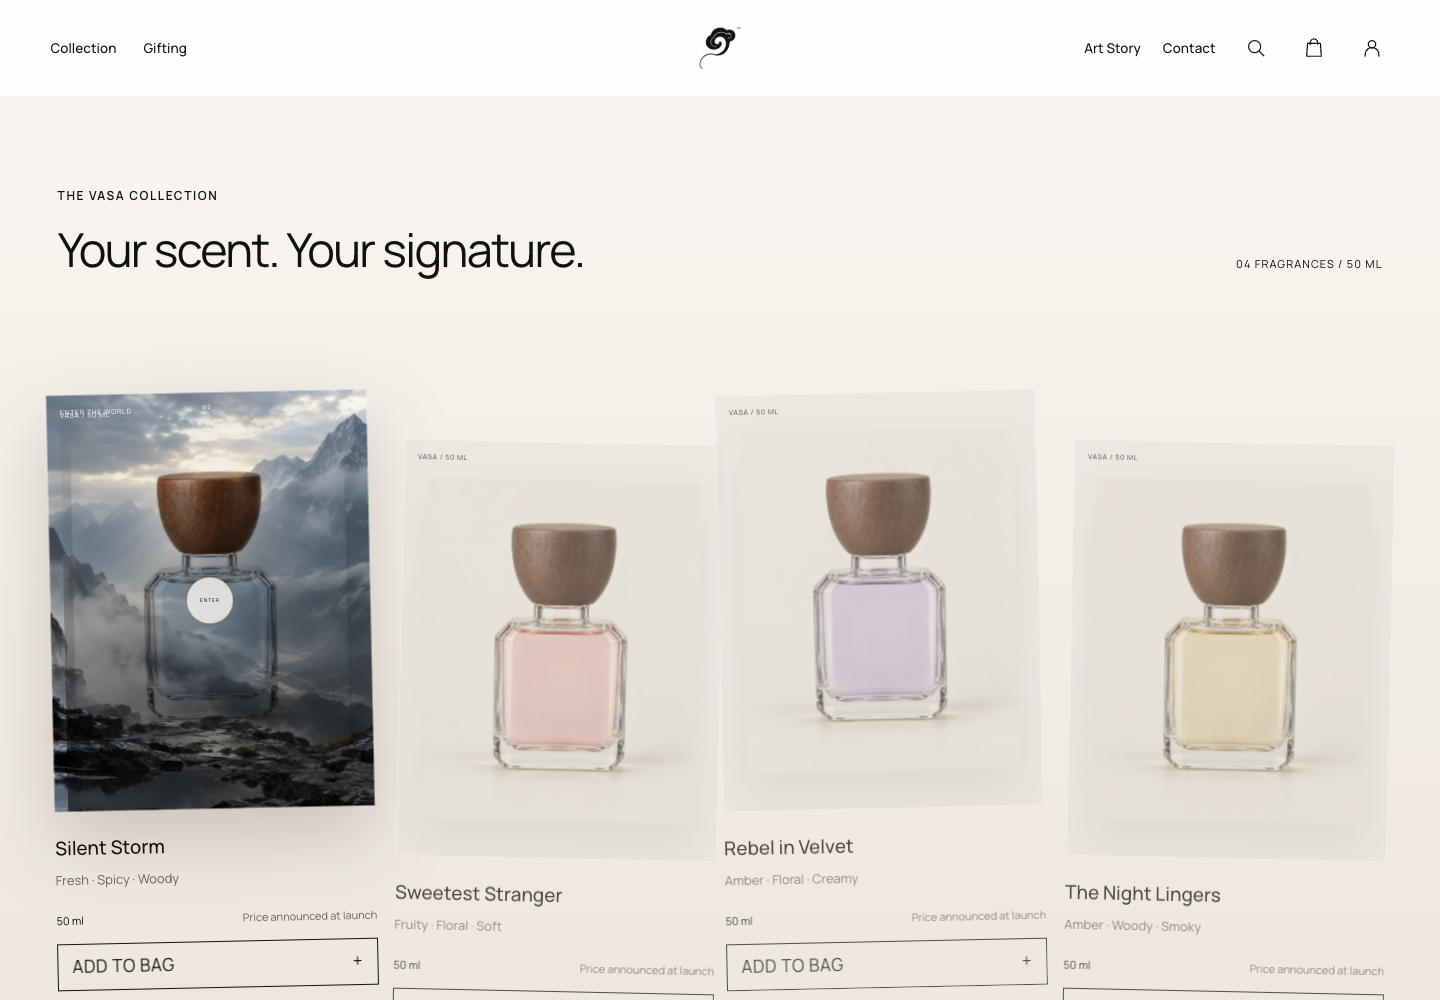
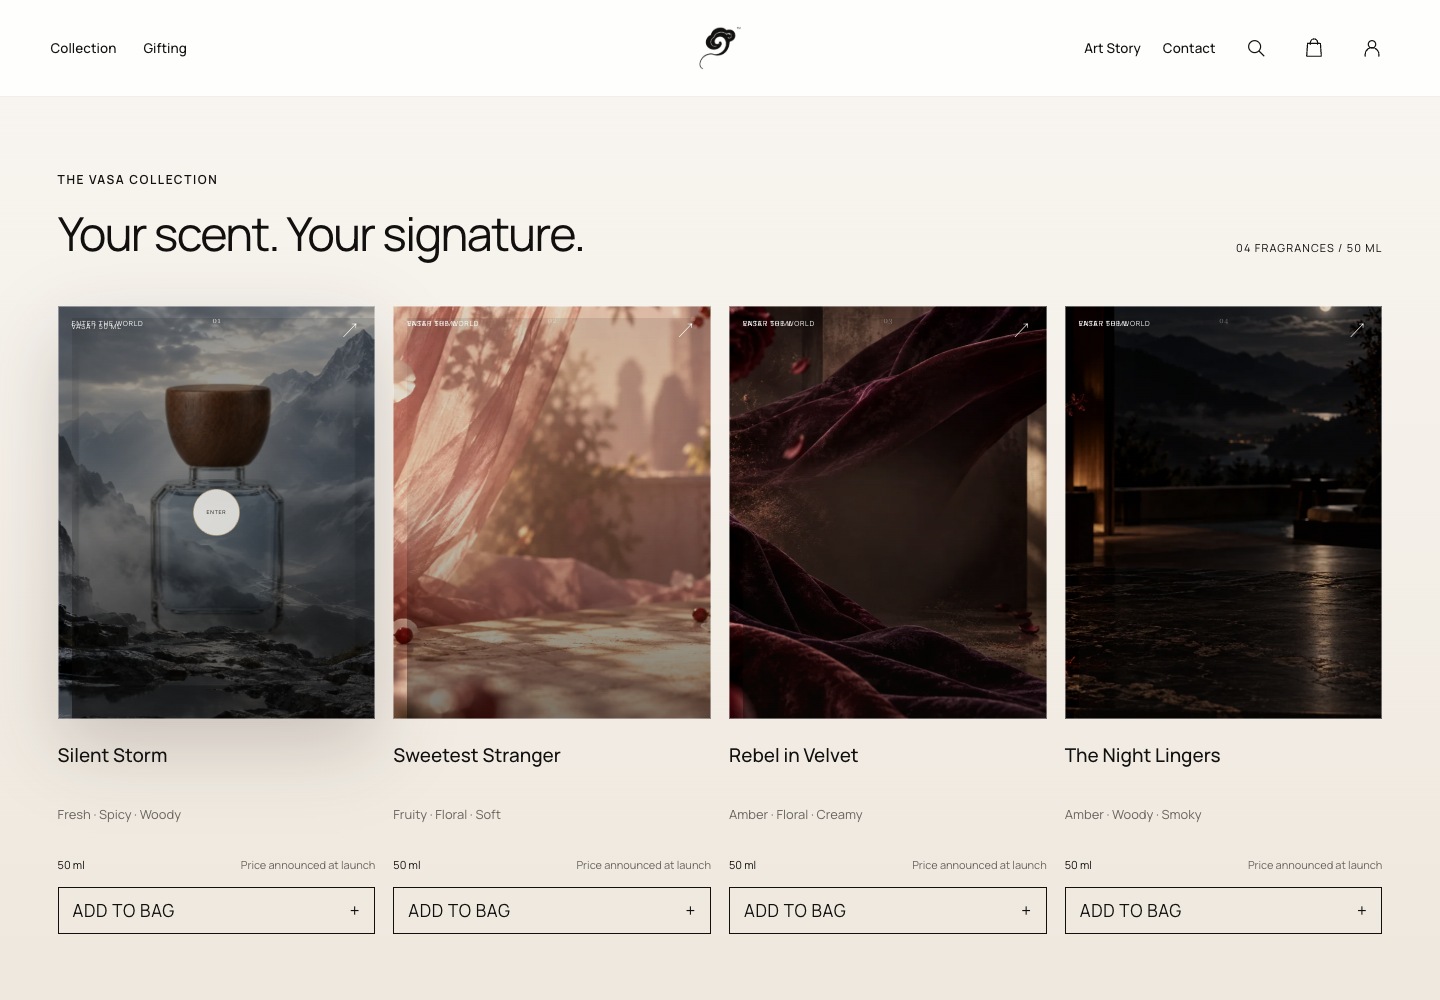
fix(campaign): align cards and reverse product reveal

diff --git a/05-campaign/style.css b/05-campaign/style.css
@@ -72,26 +72,23 @@ html,body{max-width:100%;overflow-x:clip}body{background:var(--porcelain)}
 .motion-line{overflow:hidden!important;padding:.08em .04em .12em 0;margin-bottom:-.12em;will-change:transform,opacity}
 
 .shop{background:linear-gradient(180deg,#f8f5f0 0%,#eee7dd 100%)}
-.product-grid{align-items:start;gap:14px}.product-card{position:relative;min-width:0;transition:transform .75s var(--ease-out),opacity .55s ease;transform-origin:center bottom}
-.product-grid:has(.product-card:hover) .product-card:not(:hover){opacity:.72;transform:scale(.985)}
-.product-card:hover{transform:translateY(-10px)}
+.product-grid{align-items:stretch;gap:18px}.product-card{position:relative;display:flex;min-width:0;height:100%;flex-direction:column}
 .product-image{isolation:isolate;padding:0;background:#e8e4de;aspect-ratio:4/5.2;perspective:900px;transition:box-shadow .8s var(--ease-out)}
 .product-image:after{content:'';position:absolute;inset:0;z-index:3;border:1px solid rgba(255,255,255,.38);pointer-events:none}
-.product-image .product-world{position:absolute;z-index:0;inset:-3%;width:106%;height:106%;object-fit:cover;object-position:center;mix-blend-mode:normal;clip-path:inset(0 100% 0 0);filter:saturate(.84) contrast(1.04);transition:clip-path 1.05s var(--ease-out),filter .8s ease,transform 1.2s var(--ease-out)}
-.product-card:nth-child(even) .product-world{clip-path:inset(0 0 0 100%)}
-.product-wash{position:absolute;z-index:1;inset:0;background:linear-gradient(180deg,rgba(12,10,8,.04) 30%,rgba(12,10,8,.62) 100%);opacity:0;transition:opacity .8s ease}
-.product-image .product-bottle{position:relative;z-index:2;width:100%;height:100%;padding:18px;object-fit:contain;mix-blend-mode:multiply;transform:translateZ(0) scale(.96);filter:drop-shadow(0 26px 22px rgba(16,11,8,.08));transition:transform 1s var(--ease-out),filter 1s var(--ease-out),mix-blend-mode .2s}
-.product-label{position:absolute;z-index:4;left:17px;top:15px;font-size:9px;letter-spacing:.12em;transition:color .5s ease,transform .7s var(--ease-out)}
-.product-index{position:absolute;z-index:3;right:13px;top:5px;color:#fff;font:400 clamp(42px,4.5vw,70px)/1 Georgia,serif;letter-spacing:-.08em;opacity:0;transform:translateY(-18px);transition:opacity .65s ease,transform .8s var(--ease-out)}
-.product-world-label{position:absolute;z-index:4;left:17px;right:17px;top:auto;bottom:16px;color:white;font-size:9px;letter-spacing:.13em;display:flex;justify-content:space-between;opacity:0;transform:translateY(14px);transition:opacity .55s ease .12s,transform .7s var(--ease-out) .08s}
+.product-image .product-world{position:absolute;z-index:0;inset:-3%;width:106%;height:106%;object-fit:cover;object-position:center;mix-blend-mode:normal;clip-path:inset(0);opacity:1;filter:saturate(.88) contrast(1.05) brightness(.88);transition:filter .8s ease,transform 1.2s var(--ease-out)}
+.product-wash{position:absolute;z-index:1;inset:0;background:linear-gradient(180deg,rgba(12,10,8,.13) 0%,rgba(12,10,8,.04) 38%,rgba(12,10,8,.68) 100%);opacity:.72;transition:opacity .8s ease}
+.product-image .product-bottle{position:relative;z-index:2;width:100%;height:100%;padding:18px;object-fit:contain;mix-blend-mode:multiply;opacity:0;transform:translateY(28px) scale(.84);filter:drop-shadow(0 26px 22px rgba(16,11,8,.08));transition:opacity .65s ease,transform 1s var(--ease-out),filter 1s var(--ease-out)}
+.product-label{position:absolute;z-index:4;left:17px;top:15px;color:#fff;font-size:9px;letter-spacing:.12em;text-shadow:0 1px 18px rgba(0,0,0,.72);transition:transform .7s var(--ease-out)}
+.product-index{position:absolute;z-index:3;right:13px;top:5px;color:#fff;font:400 clamp(42px,4.5vw,70px)/1 Georgia,serif;letter-spacing:-.08em;opacity:.34;transform:none;transition:opacity .65s ease,transform .8s var(--ease-out)}
+.product-world-label{position:absolute;z-index:4;left:17px;right:17px;top:auto;bottom:16px;color:white;font-size:9px;letter-spacing:.13em;display:flex;justify-content:space-between;opacity:1;transform:none;text-shadow:0 1px 18px rgba(0,0,0,.72);transition:opacity .55s ease,transform .7s var(--ease-out)}
 .product-world-label b{font-size:15px;font-weight:400}
 .product-image:hover,.product-image:focus-visible{box-shadow:0 28px 75px rgba(46,30,22,.2)}
-.product-image:hover .product-world,.product-image:focus-visible .product-world{clip-path:inset(0);filter:saturate(.95) contrast(1.08)}
-.product-image:hover .product-wash,.product-image:focus-visible .product-wash{opacity:1}
-.product-image:hover .product-bottle,.product-image:focus-visible .product-bottle{mix-blend-mode:multiply;transform:translateZ(70px) scale(1.02);filter:drop-shadow(0 34px 30px rgba(7,4,3,.32))}
-.product-image:hover .product-label,.product-image:focus-visible .product-label{color:#fff;transform:translateY(3px)}
-.product-image:hover .product-index,.product-image:focus-visible .product-index,.product-image:hover .product-world-label,.product-image:focus-visible .product-world-label{opacity:1;transform:none}
-.product-info{padding-top:23px}.product-info h3{font-size:19px}.product-info>p{font-size:13px}.product-meta,.product-meta>span:last-child{font-size:11px}
+.product-image:hover .product-world,.product-image:focus-visible .product-world{filter:saturate(.76) contrast(1.06) brightness(.67)}
+.product-image:hover .product-wash,.product-image:focus-visible .product-wash{opacity:.9}
+.product-image:hover .product-bottle,.product-image:focus-visible .product-bottle{opacity:1;transform:translateY(0) scale(.98);filter:drop-shadow(0 34px 30px rgba(7,4,3,.32))}
+.product-image:hover .product-label,.product-image:focus-visible .product-label{transform:translateY(3px)}
+.product-image:hover .product-index,.product-image:focus-visible .product-index{opacity:.72;transform:none}
+.product-info{display:flex;flex:1;flex-direction:column;padding-top:23px}.product-info h3{min-height:54px;font-size:19px}.product-info>p{min-height:44px;font-size:13px}.product-meta,.product-meta>span:last-child{font-size:11px}.product-meta{margin-top:auto}
 
 .button,.add-button{position:relative;isolation:isolate;overflow:hidden;transition:color .45s ease,border-color .45s ease,transform .4s var(--ease-out)}
 .button:before,.add-button:before{content:'';position:absolute;z-index:-1;inset:-2px;background:var(--antique-gold);transform:translateX(-102%);transition:transform .65s var(--ease-out)}
@@ -108,5 +105,5 @@ html,body{max-width:100%;overflow-x:clip}body{background:var(--porcelain)}
 #scent-cursor.visible{opacity:1;scale:1}#scent-cursor span{font-size:8px;letter-spacing:.15em}
 
 @media(max-width:1100px) and (min-width:761px){.site-header nav{grid-template-columns:1fr 175px 1fr}.brand{width:175px;min-width:175px}.nav-left>a,.nav-right>a,.text-button{font-size:12px}.kicker{font-size:11px}.product-info h3{font-size:17px}.product-info>p{font-size:11px}}
-@media(max-width:760px){.site-header nav{height:76px}.brand{width:118px;min-width:118px;height:55px;min-height:55px}.brand-mark{width:39px;height:48px}.brand .brand-mark img{width:38px;height:46px}.brand-name,.brand-stroke{display:none}.brand:hover .brand-mark,.brand:focus-visible .brand-mark{left:50%;transform:translate(-50%,-50%)}.scent-rail{height:45px}.scent-rail span{font-size:9px}.kicker{font-size:10px}.product-grid:has(.product-card:hover) .product-card:not(:hover){opacity:1;transform:none}.product-card:hover{transform:none}.product-image .product-world{clip-path:inset(64% 0 0);opacity:.56;filter:saturate(.7) contrast(1.04)}.product-card:nth-child(even) .product-world{clip-path:inset(64% 0 0)}.product-wash{opacity:.38;background:linear-gradient(180deg,transparent 45%,rgba(12,10,8,.7))}.product-world-label{opacity:1;transform:none;font-size:7px;bottom:10px;left:10px;right:10px}.product-index{font-size:34px;right:8px}.product-label{font-size:7px;left:10px;top:10px}.product-image .product-bottle{padding:9px}.product-info h3{font-size:15px}.product-info>p{font-size:10px}.product-meta,.product-meta>span:last-child{font-size:9px}.craft-strip{min-height:0}.craft-strip>div{padding:17px 0 17px 42px}.craft-strip span{left:8px;top:22px}.craft-strip h3{font-size:21px}.craft-strip p{font-size:12px}.gift-orbit{width:90%}#scent-cursor{display:none}}
+@media(max-width:760px){.site-header nav{height:76px}.brand{width:118px;min-width:118px;height:55px;min-height:55px}.brand-mark{width:39px;height:48px}.brand .brand-mark img{width:38px;height:46px}.brand-name,.brand-stroke{display:none}.brand:hover .brand-mark,.brand:focus-visible .brand-mark{left:50%;transform:translate(-50%,-50%)}.scent-rail{height:45px}.scent-rail span{font-size:9px}.kicker{font-size:10px}.product-image .product-world{clip-path:inset(0);opacity:1;filter:saturate(.78) contrast(1.05) brightness(.8)}.product-wash{opacity:.64;background:linear-gradient(180deg,rgba(12,10,8,.1),rgba(12,10,8,.06) 42%,rgba(12,10,8,.72))}.product-world-label{opacity:1;transform:none;font-size:7px;bottom:10px;left:10px;right:10px}.product-index{font-size:34px;right:8px}.product-label{font-size:7px;left:10px;top:10px}.product-image .product-bottle{padding:9px;opacity:.76;transform:scale(.88)}.product-info h3{min-height:42px;font-size:15px}.product-info>p{min-height:34px;font-size:10px}.product-meta,.product-meta>span:last-child{font-size:9px}.craft-strip{min-height:0}.craft-strip>div{padding:17px 0 17px 42px}.craft-strip span{left:8px;top:22px}.craft-strip h3{font-size:21px}.craft-strip p{font-size:12px}.gift-orbit{width:90%}#scent-cursor{display:none}}
 @media(prefers-reduced-motion:reduce){.scent-rail-track,.gift-orbit{animation:none}.product-world,.product-bottle,.product-card{transition:none!important}#scent-cursor{display:none}}

diff --git a/05-campaign/experience.js b/05-campaign/experience.js
@@ -11,21 +11,18 @@ function headingReveals(){
 
 function cardEntrances(){
  const cards=gsap.utils.toArray('.product-card');
- gsap.from(cards,{y:index=>index%2?120:70,rotate:index=>index%2?1.2:-1.2,duration:1.25,stagger:.12,ease:'power4.out',scrollTrigger:{trigger:'.product-grid',start:'top 84%',once:true}});
+ gsap.from(cards,{y:68,duration:1.05,stagger:.08,ease:'power4.out',scrollTrigger:{trigger:'.product-grid',start:'top 84%',once:true}});
  cards.forEach(card=>{
   const world=card.querySelector('.product-world');
   gsap.fromTo(world,{scale:1.22},{scale:1.04,ease:'none',scrollTrigger:{trigger:card,start:'top bottom',end:'bottom top',scrub:1.2}});
   if(!pointerFine.matches)return;
-  const bottle=card.querySelector('.product-bottle');
   const worldX=gsap.quickTo(world,'x',{duration:.7,ease:'power3.out'});
   const worldY=gsap.quickTo(world,'y',{duration:.7,ease:'power3.out'});
-  const bottleX=gsap.quickTo(bottle,'x',{duration:.55,ease:'power3.out'});
-  const bottleY=gsap.quickTo(bottle,'y',{duration:.55,ease:'power3.out'});
   card.addEventListener('pointermove',event=>{
    const box=card.getBoundingClientRect(),x=(event.clientX-box.left)/box.width-.5,y=(event.clientY-box.top)/box.height-.5;
-   worldX(x*-18);worldY(y*-18);bottleX(x*13);bottleY(y*10);
+   worldX(x*-12);worldY(y*-12);
   });
-  card.addEventListener('pointerleave',()=>{worldX(0);worldY(0);bottleX(0);bottleY(0)});
+  card.addEventListener('pointerleave',()=>{worldX(0);worldY(0)});
  });
 }
 
@@ -42,9 +39,9 @@ function pinnedPrinciples(){
  const mm=gsap.matchMedia();
  mm.add('(min-width: 901px)',()=>{
   const items=gsap.utils.toArray('.craft-strip>div');
-  gsap.set(items,{opacity:.26,y:24});
+  gsap.set(items,{opacity:.62,y:16});
   const tl=gsap.timeline({scrollTrigger:{trigger:'.craft-strip',start:'center center',end:'+=520',pin:true,scrub:1,anticipatePin:1}});
-  items.forEach((item,index)=>tl.to(item,{opacity:1,y:0,duration:1,ease:'power2.out'},index*.7).to(item,{opacity:index===items.length-1?1:.38,y:index===items.length-1?0:-12,duration:.7,ease:'power2.inOut'},index*.7+.7));
+  items.forEach((item,index)=>tl.to(item,{opacity:1,y:0,duration:1,ease:'power2.out'},index*.7).to(item,{opacity:index===items.length-1?1:.62,y:index===items.length-1?0:-8,duration:.7,ease:'power2.inOut'},index*.7+.7));
   return()=>tl.scrollTrigger?.kill();
  });
 }
